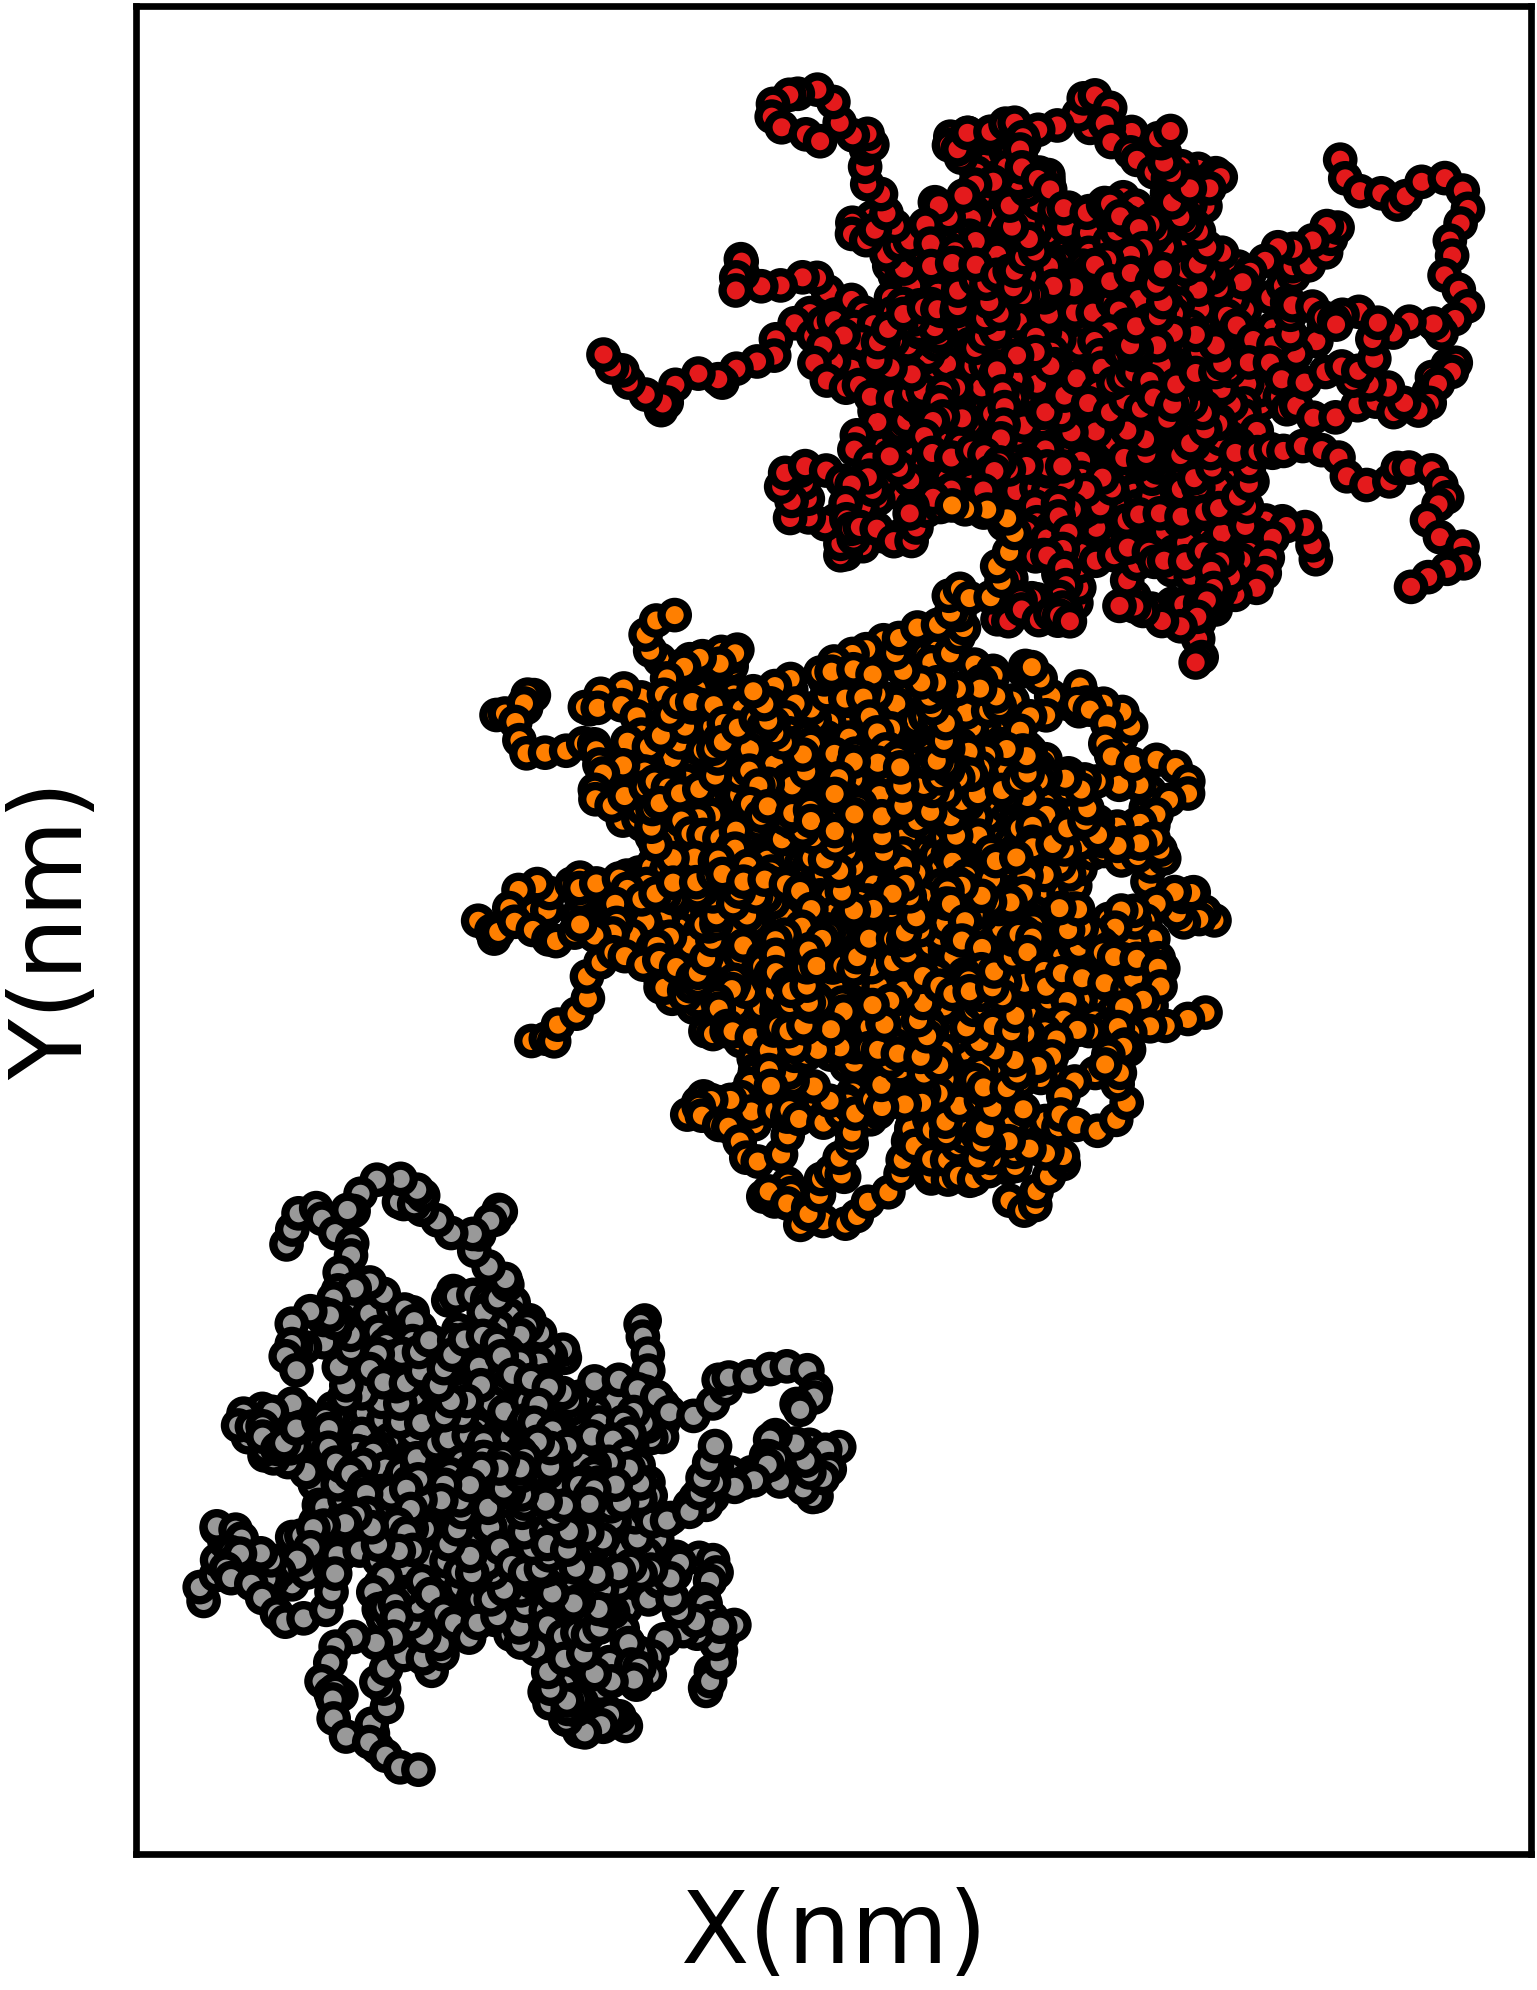
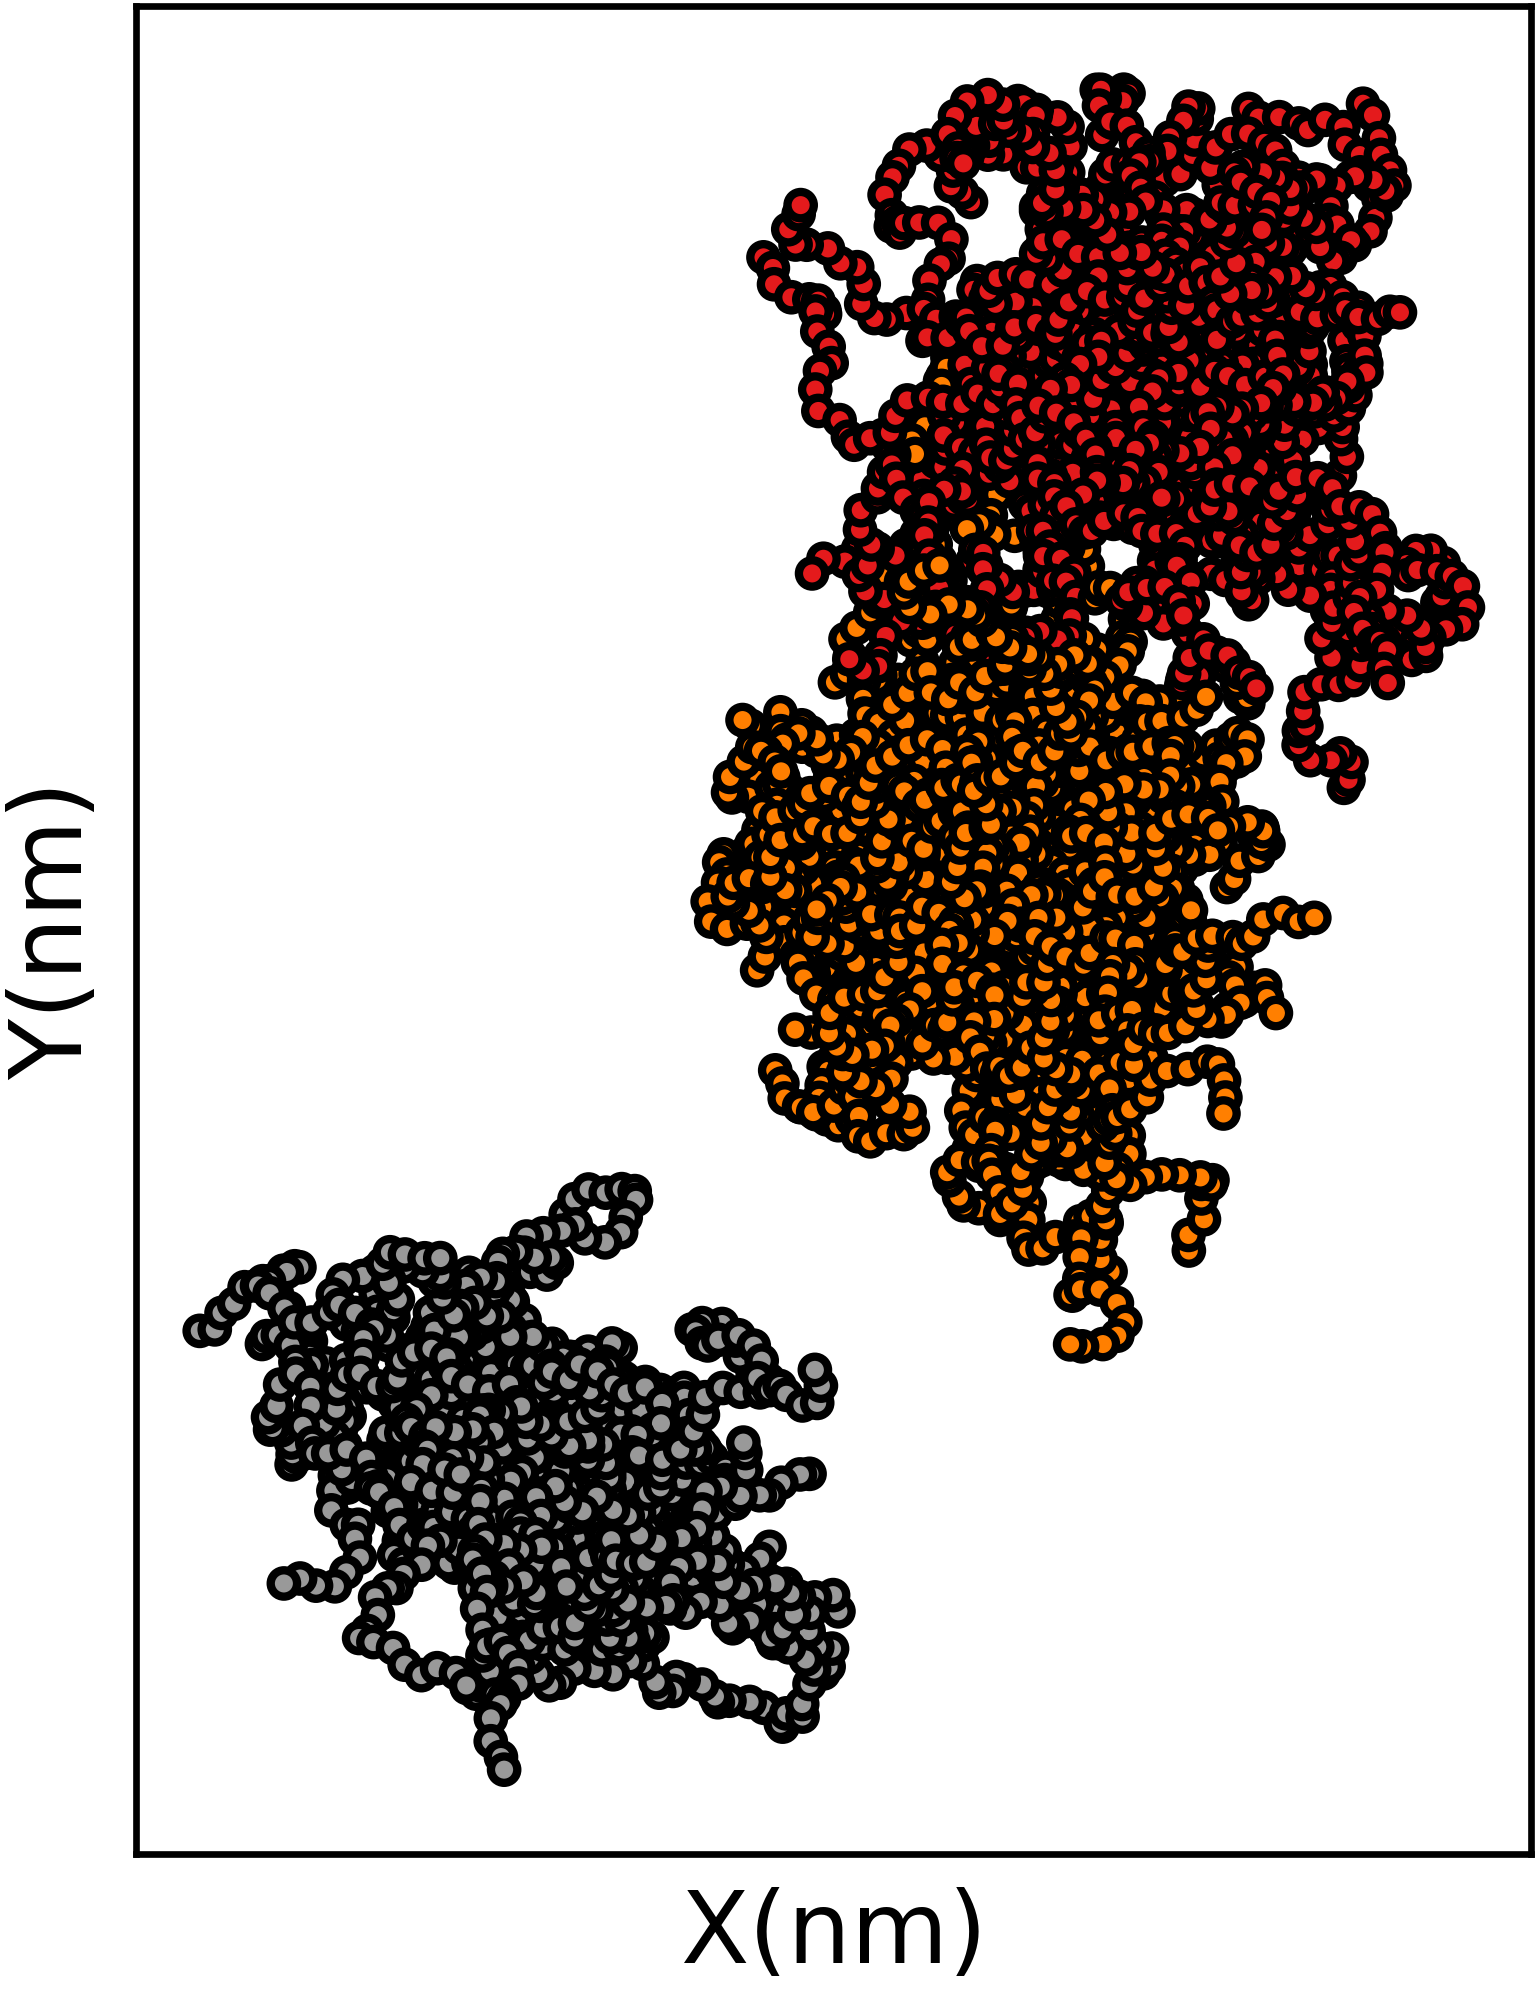
Initial commit of MLMicelle project

Changed region(s): [[0.2811, 0.0312, 0.9681, 0.6854], [0.1249, 0.5608, 0.5621, 0.9035]]

diff --git a/MLMicelle/utils/traj_reader.py b/MLMicelle/utils/traj_reader.py
@@ -1,0 +1,196 @@
+## this file includes multiple functions
+import numpy as np
+import os 
+import  time
+# import subprocess
+import linecache
+import re
+import pandas as pd
+####### READERS
+# this function reads and stores the coordinates, and outputs the DataFrame of coordinates and the box size
+
+def pdb_reader (traj_file):
+    atoms=[]
+    f=open(traj_file,'r')
+    for j,line in enumerate(f):
+        if line.startswith("ATOM") or line.startswith("HETATM"):
+            atom_info = {}
+            atom_info['record_name'] = line[0:6].strip()
+            atom_info['atom_serial_number'] = int(line[6:11].strip())
+            atom_info['atom_name'] = line[12:16].strip()
+            atom_info['alternate_location'] = line[16].strip()
+            atom_info['residue_name'] = line[17:20].strip()
+            atom_info['chain_id'] = line[21].strip()
+            atom_info['residue_sequence_number'] = int(line[22:26].strip())
+            atom_info['icode'] = line[26].strip()
+            atom_info['x'] = float(line[30:38].strip())
+            atom_info['y'] = float(line[38:46].strip())
+            atom_info['z'] = float(line[46:54].strip())
+            atom_info['occupancy'] = float(line[54:60].strip())
+            atom_info['temperature_factor'] = float(line[60:66].strip())
+            atom_info['element'] = line[76:78].strip()
+            atom_info['charge'] = line[78:80].strip()
+            atoms.append(atom_info)
+    # data=num_conv_pd(np.array(coord),atom_type) ## save as dataframe
+    return pd.DataFrame(atoms)
+def gro_reader (traj_file,frame=1):
+    f=open(traj_file,'r')
+    lines = f.readlines()
+    # coord=[]
+    atoms = []
+    # atom_type=[]
+    atom_nums=atom_count(traj_file)
+    # frame_line=atom_nums+3       
+    for line in lines[(frame-1)*(atom_nums+3)+2:(frame-1)*(atom_nums+3)+2+atom_nums]:
+        # if i==atom_nums+1:
+        #     box_size=linecache.getline(traj_file, (frame-1)*frame_line+i+2)
+        #     continue
+        atom_info = {}
+        atom_info['residue_number'] = int(line[:5].strip())
+        atom_info['residue_name'] = line[5:10].strip()
+        atom_info['atom_name'] = line[10:15].strip()
+        atom_info['atom_number'] = int(line[15:20].strip())
+        atom_info['x'] = float(line[20:28].strip())
+        atom_info['y'] = float(line[28:36].strip())
+        atom_info['z'] = float(line[36:44].strip())
+        if len(line) > 45:  # If velocities are present
+            atom_info['vx'] = float(line[44:52].strip())
+            atom_info['vy'] = float(line[52:60].strip())
+            atom_info['vz'] = float(line[60:68].strip())
+        atoms.append(atom_info)
+        # line=linecache.getline(traj_file, (frame-1)*frame_line+i+2)
+        # data=[float(line[20:28]),float(line[28:36]),float(line[36:44])]
+        # coord.append(data)
+        # atom_type.append(line[10:15].replace(' ',''))
+    # data=num_conv_pd(np.array(coord),atom_type) ## save as dataframe
+    return pd.DataFrame(atoms)
+## this function inputs dataframe of data, and indexfile, and desired index, and gets the coordinates of the particles in that index. "ndx" reader
+def ndx_reader(data_pd,index_file,sel_ind):
+    f1=open(index_file)
+    atom_num=[]
+    index_num=-1  ## number of index
+    flag=0
+    read_lines=''
+    for j,line in enumerate(f1):
+        if line.split()[0][0] == '[': 
+            index_num=index_num+1
+            if index_num==sel_ind: ## starts reading when we get to the desired index
+                flag=1
+                continue
+            if index_num==sel_ind+1: ## stops reading when we pass the desired index
+                break
+        if flag:
+            read_lines=read_lines+line
+    atom_num=read_lines.split()
+    atom_ind=[int(x) for x in atom_num]
+    data_sel=data_pd.loc[atom_ind]
+    return data_sel
+## this function reads the xvg files, it neads the the filename and the columns as inputs. Outputs them as x and y. "xvg" reader
+def ndx_writer(index_file,Data,group):
+    f=open(index_file,"a")
+    f.write('\n['+group+']\n')
+    for iter,data_point in enumerate(Data):
+        if (iter+1)%15==0:
+            f.write('%5d \n' % data_point)
+        else:
+            f.write('%5d      ' % data_point)
+    f.close()
+def xvg_reader(filename,indice):
+      spec_char=['@','#','&']
+      x=[]
+      y=[]
+      with open(filename) as f:
+            for j,line in enumerate(f):
+                  if line.split()[0][0]  in spec_char:
+                        continue
+                  x.append(float(line.split()[indice[0]-1]))
+                  y.append(float(line.split()[indice[1]-1]))
+      return x,y
+####### FUNCTIONS
+## this function counts total number of particles in the box
+def atom_count(traj_file):
+    if traj_file[-3:]=='gro':
+        f1=open(traj_file)
+        for j,line in enumerate(f1):
+            if j==1:
+                atom_nums=int(line)
+                break
+        return atom_nums
+    # if traj_file[-3:]=='pdb':
+    #     f1=open(traj_file)
+    #     for j,line in enumerate(f1):
+    #         if j==1:
+    #             atom_nums=int(line)
+    #             break
+    #     return atom_nums
+# this function counts number of frames in a gro file
+def frame_count(traj_file):
+    atom_nums=atom_count(traj_file)
+    # p = subprocess.Popen("wc -l %s" % traj_file, stdout=subprocess.PIPE,shell=True) 
+    # line_num = int(p.stdout.read().decode().split()[0]) ## for big files , we recommed linux users to uncomment the above
+    line_num = sum(1 for line in open(traj_file))  ## for very big files , we recommed linux users to uncomment the above
+    frame_lines=atom_nums+3
+    return int(line_num/frame_lines)    
+
+## this function converts coordinate 
+def num_conv_pd(coordinate,atom_type):
+    dicts={'Bead': atom_type,'X': coordinate[:,0], 'Y':  coordinate[:,1], 'Z':  coordinate[:,2]}
+    data=pd.DataFrame(dicts)
+    data.index+=1
+    return data
+## this function writes in the gro format
+def gro_writer_old(traj_file,CG_data,box_size,res_name,frame=1):
+    # res_name="WAT"
+    # atom_name="OW"
+    f=open(traj_file,"a")
+    f.write('frame number is %d\n' % frame)
+    f.write(' %6d\n' % len(CG_data))
+
+    for i in range(len(CG_data)):
+        f.write('%5i%-5s%5s%5i%8.3f%8.3f%8.3f\n' % (1,res_name,CG_data.loc[i+1,'Bead'],float(i+1),CG_data.loc[i+1,'X'],CG_data.loc[i+1,'Y'],CG_data.loc[i+1,'Z']))
+    f.write('%10s%20s%20s\n' % (box_size.split()[0],box_size.split()[1],box_size.split()[2])) 
+    f.close()
+    return f
+def pdb_writer(traj_file,data):
+    f=open(traj_file,"a")
+    for i in data.index.tolist():
+        atom_line = "{:<6}{:>5} {:<4}{:<1}{:<3} {:<1}{:>4}{:<1}   {:>8.3f}{:>8.3f}{:>8.3f}{:>6.2}{:>6.2}          {:>2}{:>2}".format(
+        data.loc[i,'record_name'] if 'record_name' in data.columns else 'ATOM',
+        data.loc[i,'atom_number'],
+        data.loc[i,'atom_name'],
+        data.loc[i,'alternate_location'] if 'alternate_location' in data.columns else ' ',
+        data.loc[i,'residue_name'],
+        data.loc[i,'chain_id']  if 'chain_id' in data.columns else ' ',
+        data.loc[i,'chain_number'] ,
+        data.loc[i,'icode'] if 'icode' in data.columns else ' ',
+        data.loc[i,'x'],
+        data.loc[i,'y'],
+        data.loc[i,'z'],
+        data.loc[i,'occupancy'] if 'occupancy' in data.columns else ' ' ,
+        data.loc[i,'temperature_factor'] if 'temperature_factor' in data.columns else ' ' ,
+        data.loc[i,'element'] if 'element' in data.columns else ' ' ,
+        data.loc[i,'charge'] if 'charge' in data.columns else ' ')
+        f.write(atom_line + "\n")
+
+    f.close()
+    return f
+
+def gro_writer(traj_file,data,box_dimensions=[10,10,10]):
+    # res_name="WAT"
+    # atom_name="OW"
+    f=open(traj_file,"a")
+    f=open(traj_file,"a")
+    f.write("Generated by script\n")
+    f.write("{:5d}\n".format(len(data)))
+    for i in data.index.tolist():
+        atom_line = "{:5d}{:<5}{:>5}{:5d}{:8.3f}{:8.3f}{:8.3f}".format(
+        data.loc[i,'chain_number'] ,
+        data.loc[i,'residue_name'],
+        data.loc[i,'atom_name'],
+        data.loc[i,'atom_number'],
+        data.loc[i,'x'],
+        data.loc[i,'y'],
+        data.loc[i,'z'])
+        f.write(atom_line + "\n")
+    f.write("{:10.5f}{:10.5f}{:10.5f}\n".format(*box_dimensions))
+    return f

diff --git a/scripts/main.py b/scripts/main.py
@@ -1,31 +1,13 @@
-# # import the file
+from   MLMicelle.utils import traj_reader as trj
+import MLMicelle.clustering as clst
+import MLMicelle.analysis as mic_anal
+import MLMicelle.visualization as plts
+import pandas as pd
 import numpy as np
-# import pandas as pd
-import traj_reader  as trj
-import sys
-import os
-import clustering as clst
-import analysis as mic_anal
-import visualization as plts
 
-# ##### GIVEN VALUES
-PO_bead='PO40'
-rad_agg_traj_file='./data/input/md_cluster_nopbc_trj.gro' ## this file is used to do the radius evaluations
-num_frame_size=trj.frame_count(rad_agg_traj_file) ## determining number of steps of size evalation
-n_clus_vec=[]
 
-### find size changes with time
-# for frame_iter in range (num_frame_size):
-frame_iter=0
-pd_data= trj.gro_reader(rad_agg_traj_file, frame_iter+1)
-data_final = clst.clustering(pd_data,  PO_bead)
-# plts.clusters_2D(data_final,PO_bead)
-cluster_num = 1
-mice_size_vec, core_size_vec, agg_numb_vec = mic_anal.analysis(data_final,PO_bead)
-plts.size_2D(data_final[data_final['clusters']==cluster_num],PO_bead)
-# n_clus_vec.append(data_final['clusters'].nunique())
-# # print("frame number: %d      cluster number=%d" % (frame_iter+1 ,data_final['clusters'].nunique()))
-# # print(np.average(n_clus_vec))
-# mice_size_vec, core_size_vec, agg_numb_vec = mic_anal.analysis(data_final,PO_bead)
-# print(mice_size_vec, core_size_vec, agg_numb_vec)
+traj_file='./data/input/md_cluster_nopbc_trj.gro' ## this file is used to do the radius evaluations
+pd_data= trj.gro_reader(traj_file)
+clustered_data = clst.clustering(pd_data)
+plts.clusters_2D(clustered_data)
 

diff --git a/MLMicelle/clustering/cluster.py b/MLMicelle/clustering/cluster.py
@@ -3,7 +3,7 @@ import pandas as pd
 from sklearn.cluster import DBSCAN
 
 
-def clustering(data,PO_bead):
+def clustering(data,PO_bead='PO40'):
     data_fit               = data.loc[data['atom_name']==PO_bead,'x':'z']## data for clustering is only based on PO
     clustering             = DBSCAN(eps=0.47, min_samples=3).fit(data_fit) ## DBSCAN is used to do clustering
     data_fit["clusters"]   = clustering.labels_.astype(int) ## add the clusters to data_fit

diff --git a/MLMicelle/visualization/plots.py b/MLMicelle/visualization/plots.py
@@ -3,7 +3,7 @@ from matplotlib import pyplot as plt
 from matplotlib.patches import Circle
 import seaborn as sns
 
-def clusters_2D(data_final,PO_bead):  
+def clusters_2D(data_final):  
     fig , ax = plt.subplots(figsize=(3.0,4))
     font_size = 12
     data_final.plot(

diff --git a/setup.py b/setup.py
@@ -5,6 +5,5 @@ setup(
     version="0.1",
     packages=find_packages(),  # Automatically finds and includes all sub-packages
     install_requires=[          # List dependencies if needed
-        # e.g., 'numpy', 'MDAnalysis', etc.
     ],
 )
